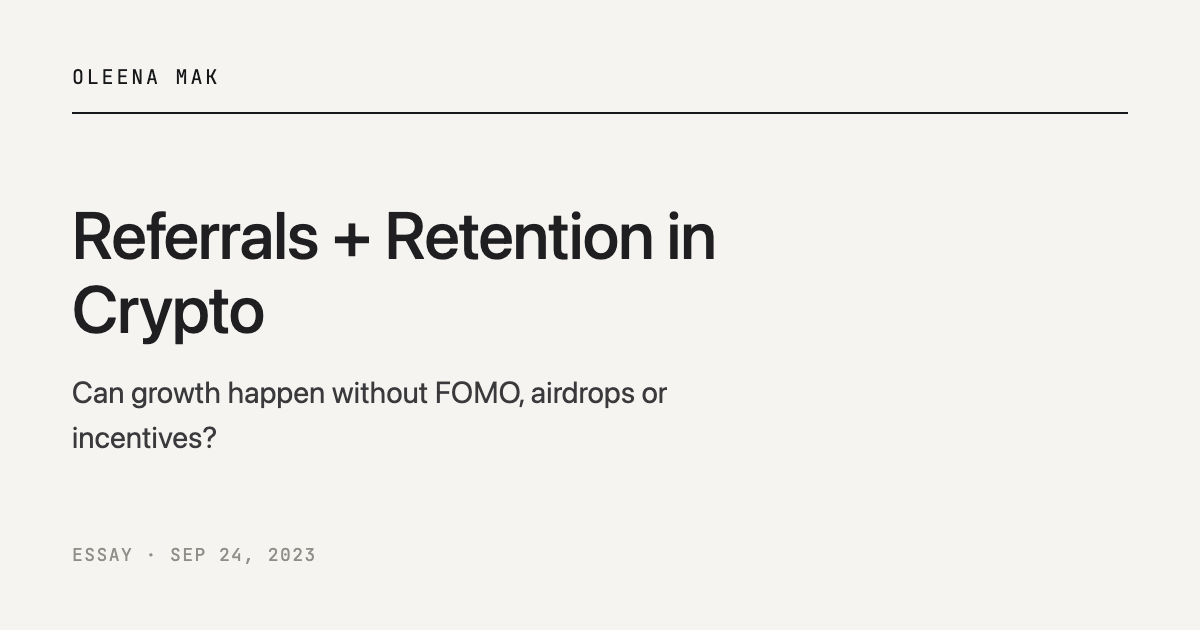
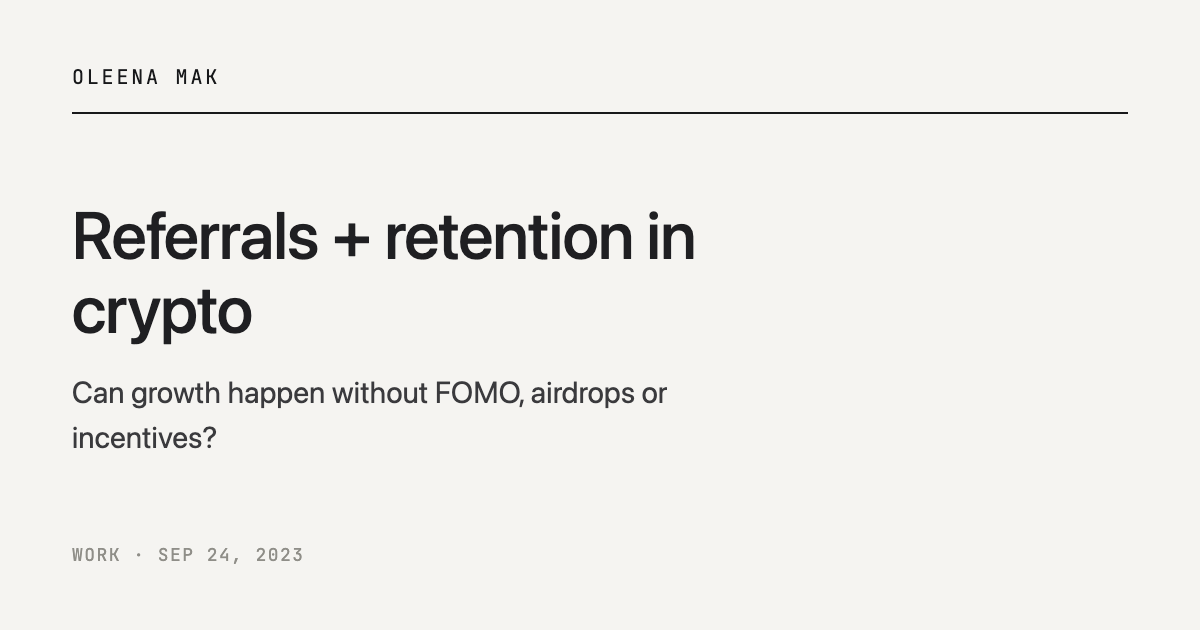
Recategorise entries; sentence-case titles; retire the essay kind
Kinds: the two "On ..." pieces become memos; the three crypto pieces become
work. Every entry is now memo or work, so "essay" is removed from the taxonomy
and "work" added beside "memo".

Titles moved to sentence case: Token-led growth, Web3 mental models: measuring
performance, Referrals + retention in crypto. The two "On ..." titles were
already sentence case.

"Practicing legibility" retitled "Improving legibility" and given the new
operator subject. Its slug is unchanged, so the URL still reads
/writing/practicing-legibility/.

OG cards regenerated: they render both the title and the kind label.

Changed region(s): [[0.3083, 0.3317, 0.6167, 0.4222], [0.0617, 0.4524, 0.2467, 0.5429], [0.0617, 0.8746, 0.2775, 0.9048]]

diff --git a/writing/web3-mental-models-measuring-performance/index.html b/writing/web3-mental-models-measuring-performance/index.html
@@ -3,7 +3,7 @@
 <head>
 <meta charset="utf-8">
 <meta name="viewport" content="width=device-width, initial-scale=1">
-<title>Web3 Mental Models: Measuring Performance · Oleena Mak</title>
+<title>Web3 mental models: measuring performance · Oleena Mak</title>
 <meta name="description" content="The shift to performance-based web3 metrics">
 <link rel="canonical" href="https://oleenamak.ca/writing/web3-mental-models-measuring-performance/">
 <meta name="theme-color" content="#f5f4f1">
@@ -11,15 +11,15 @@
 <meta property="og:type" content="article">
 <meta property="article:published_time" content="2024-04-20">
 <meta property="og:site_name" content="Oleena Mak">
-<meta property="og:title" content="Web3 Mental Models: Measuring Performance · Oleena Mak">
+<meta property="og:title" content="Web3 mental models: measuring performance · Oleena Mak">
 <meta property="og:description" content="The shift to performance-based web3 metrics">
 <meta property="og:url" content="https://oleenamak.ca/writing/web3-mental-models-measuring-performance/">
 <meta property="og:image" content="https://oleenamak.ca/assets/og/web3-mental-models-measuring-performance.png">
 <meta property="og:image:width" content="1200">
 <meta property="og:image:height" content="630">
-<meta property="og:image:alt" content="Web3 Mental Models: Measuring Performance — Oleena Mak">
+<meta property="og:image:alt" content="Web3 mental models: measuring performance — Oleena Mak">
 <meta name="twitter:card" content="summary_large_image">
-<meta name="twitter:title" content="Web3 Mental Models: Measuring Performance · Oleena Mak">
+<meta name="twitter:title" content="Web3 mental models: measuring performance · Oleena Mak">
 <meta name="twitter:description" content="The shift to performance-based web3 metrics">
 <meta name="twitter:image" content="https://oleenamak.ca/assets/og/web3-mental-models-measuring-performance.png">
 
@@ -42,7 +42,7 @@
 
     <aside class="rail">
       <dl class="coords">
-        <dt>kind</dt><dd><a href="/?kind=essay">essay</a></dd>
+        <dt>kind</dt><dd><a href="/?kind=work">work</a></dd>
         <dt>date</dt><dd>2024-04-20</dd>
         <dt>subj</dt><dd><a href="/?subj=crypto">crypto</a>, <a href="/?subj=growth">growth</a>, <a href="/?subj=systems">systems</a></dd>
       </dl>
@@ -60,7 +60,7 @@
       <article class="column">
         <!-- auto:body -->
         <div class="masthead">
-          <h1 class="title">Web3 Mental Models: Measuring Performance</h1>
+          <h1 class="title">Web3 mental models: measuring performance</h1>
           <p class="deck">The shift to performance-based web3 metrics</p>
         </div>
 
@@ -134,8 +134,8 @@
           <h2 class="label">Where this sits</h2>
           <div class="coordinates-out">
             <a href="/?subj=crypto">2 other entries under crypto &rarr;</a>
-            <a href="/writing/referrals-retention-in-crypto/">previous essay &larr;</a>
-            <a href="/writing/on-fragmented-communication/">next essay &rarr;</a>
+            <a href="/writing/referrals-retention-in-crypto/">previous work &larr;</a>
+            <a href="/writing/token-led-growth/">next work &rarr;</a>
           </div>
         </footer>
         <!-- /auto:where -->

diff --git a/writing/practicing-legibility/index.html b/writing/practicing-legibility/index.html
@@ -3,7 +3,7 @@
 <head>
 <meta charset="utf-8">
 <meta name="viewport" content="width=device-width, initial-scale=1">
-<title>Practicing legibility · Oleena Mak</title>
+<title>Improving legibility · Oleena Mak</title>
 <meta name="description" content="If you’ve ever been told, more than once, that you’re “too hard to read”, this is a bug, not a feature.">
 <link rel="canonical" href="https://oleenamak.ca/writing/practicing-legibility/">
 <meta name="theme-color" content="#f5f4f1">
@@ -11,15 +11,15 @@
 <meta property="og:type" content="article">
 <meta property="article:published_time" content="2026-09-14">
 <meta property="og:site_name" content="Oleena Mak">
-<meta property="og:title" content="Practicing legibility · Oleena Mak">
+<meta property="og:title" content="Improving legibility · Oleena Mak">
 <meta property="og:description" content="If you’ve ever been told, more than once, that you’re “too hard to read”, this is a bug, not a feature.">
 <meta property="og:url" content="https://oleenamak.ca/writing/practicing-legibility/">
 <meta property="og:image" content="https://oleenamak.ca/assets/og/practicing-legibility.png">
 <meta property="og:image:width" content="1200">
 <meta property="og:image:height" content="630">
-<meta property="og:image:alt" content="Practicing legibility — Oleena Mak">
+<meta property="og:image:alt" content="Improving legibility — Oleena Mak">
 <meta name="twitter:card" content="summary_large_image">
-<meta name="twitter:title" content="Practicing legibility · Oleena Mak">
+<meta name="twitter:title" content="Improving legibility · Oleena Mak">
 <meta name="twitter:description" content="If you’ve ever been told, more than once, that you’re “too hard to read”, this is a bug, not a feature.">
 <meta name="twitter:image" content="https://oleenamak.ca/assets/og/practicing-legibility.png">
 
@@ -44,7 +44,7 @@
       <dl class="coords">
         <dt>kind</dt><dd><a href="/?kind=memo">memo</a></dd>
         <dt>date</dt><dd>2026-09-14</dd>
-        <dt>subj</dt><dd><a href="/?subj=craft">craft</a>, <a href="/?subj=culture">culture</a></dd>
+        <dt>subj</dt><dd><a href="/?subj=operator">operator</a>, <a href="/?subj=craft">craft</a>, <a href="/?subj=culture">culture</a></dd>
       </dl>
 <footer class="block block--ruled site-footer">
         <h2 class="label">Elsewhere</h2>
@@ -60,7 +60,7 @@
       <article class="column">
         <!-- auto:body -->
         <div class="masthead">
-          <h1 class="title">Practicing legibility</h1>
+          <h1 class="title">Improving legibility</h1>
           
         </div>
 
@@ -91,7 +91,14 @@
         </div>
         <!-- /auto:body -->
 
-        <!-- auto:where --><!-- /auto:where -->
+        <!-- auto:where -->
+        <footer class="block block--ruled">
+          <h2 class="label">Where this sits</h2>
+          <div class="coordinates-out">
+            <a href="/writing/on-fragmented-communication/">previous memo &larr;</a>
+          </div>
+        </footer>
+        <!-- /auto:where -->
       </article>
     </main>
 

diff --git a/writing/referrals-retention-in-crypto/index.html b/writing/referrals-retention-in-crypto/index.html
@@ -3,7 +3,7 @@
 <head>
 <meta charset="utf-8">
 <meta name="viewport" content="width=device-width, initial-scale=1">
-<title>Referrals + Retention in Crypto · Oleena Mak</title>
+<title>Referrals + retention in crypto · Oleena Mak</title>
 <meta name="description" content="Can growth happen without FOMO, airdrops or incentives?">
 <link rel="canonical" href="https://oleenamak.ca/writing/referrals-retention-in-crypto/">
 <meta name="theme-color" content="#f5f4f1">
@@ -11,15 +11,15 @@
 <meta property="og:type" content="article">
 <meta property="article:published_time" content="2023-09-24">
 <meta property="og:site_name" content="Oleena Mak">
-<meta property="og:title" content="Referrals + Retention in Crypto · Oleena Mak">
+<meta property="og:title" content="Referrals + retention in crypto · Oleena Mak">
 <meta property="og:description" content="Can growth happen without FOMO, airdrops or incentives?">
 <meta property="og:url" content="https://oleenamak.ca/writing/referrals-retention-in-crypto/">
 <meta property="og:image" content="https://oleenamak.ca/assets/og/referrals-retention-in-crypto.png">
 <meta property="og:image:width" content="1200">
 <meta property="og:image:height" content="630">
-<meta property="og:image:alt" content="Referrals + Retention in Crypto — Oleena Mak">
+<meta property="og:image:alt" content="Referrals + retention in crypto — Oleena Mak">
 <meta name="twitter:card" content="summary_large_image">
-<meta name="twitter:title" content="Referrals + Retention in Crypto · Oleena Mak">
+<meta name="twitter:title" content="Referrals + retention in crypto · Oleena Mak">
 <meta name="twitter:description" content="Can growth happen without FOMO, airdrops or incentives?">
 <meta name="twitter:image" content="https://oleenamak.ca/assets/og/referrals-retention-in-crypto.png">
 
@@ -42,7 +42,7 @@
 
     <aside class="rail">
       <dl class="coords">
-        <dt>kind</dt><dd><a href="/?kind=essay">essay</a></dd>
+        <dt>kind</dt><dd><a href="/?kind=work">work</a></dd>
         <dt>date</dt><dd>2023-09-24</dd>
         <dt>subj</dt><dd><a href="/?subj=crypto">crypto</a>, <a href="/?subj=growth">growth</a></dd>
       </dl>
@@ -60,7 +60,7 @@
       <article class="column">
         <!-- auto:body -->
         <div class="masthead">
-          <h1 class="title">Referrals + Retention in Crypto</h1>
+          <h1 class="title">Referrals + retention in crypto</h1>
           <p class="deck">Can growth happen without FOMO, airdrops or incentives?</p>
         </div>
 
@@ -140,8 +140,7 @@
           <h2 class="label">Where this sits</h2>
           <div class="coordinates-out">
             <a href="/?subj=crypto">2 other entries under crypto &rarr;</a>
-            <a href="/writing/algorithms-groupthink-and-media/">previous essay &larr;</a>
-            <a href="/writing/web3-mental-models-measuring-performance/">next essay &rarr;</a>
+            <a href="/writing/web3-mental-models-measuring-performance/">next work &rarr;</a>
           </div>
         </footer>
         <!-- /auto:where -->

diff --git a/writing/token-led-growth/index.html b/writing/token-led-growth/index.html
@@ -3,7 +3,7 @@
 <head>
 <meta charset="utf-8">
 <meta name="viewport" content="width=device-width, initial-scale=1">
-<title>Token-led Growth · Oleena Mak</title>
+<title>Token-led growth · Oleena Mak</title>
 <meta name="description" content="A draft playbook for the next era of web3">
 <link rel="canonical" href="https://oleenamak.ca/writing/token-led-growth/">
 <meta name="theme-color" content="#f5f4f1">
@@ -11,15 +11,15 @@
 <meta property="og:type" content="article">
 <meta property="article:published_time" content="2026-04-20">
 <meta property="og:site_name" content="Oleena Mak">
-<meta property="og:title" content="Token-led Growth · Oleena Mak">
+<meta property="og:title" content="Token-led growth · Oleena Mak">
 <meta property="og:description" content="A draft playbook for the next era of web3">
 <meta property="og:url" content="https://oleenamak.ca/writing/token-led-growth/">
 <meta property="og:image" content="https://oleenamak.ca/assets/og/token-led-growth.png">
 <meta property="og:image:width" content="1200">
 <meta property="og:image:height" content="630">
-<meta property="og:image:alt" content="Token-led Growth — Oleena Mak">
+<meta property="og:image:alt" content="Token-led growth — Oleena Mak">
 <meta name="twitter:card" content="summary_large_image">
-<meta name="twitter:title" content="Token-led Growth · Oleena Mak">
+<meta name="twitter:title" content="Token-led growth · Oleena Mak">
 <meta name="twitter:description" content="A draft playbook for the next era of web3">
 <meta name="twitter:image" content="https://oleenamak.ca/assets/og/token-led-growth.png">
 
@@ -42,7 +42,7 @@
 
     <aside class="rail">
       <dl class="coords">
-        <dt>kind</dt><dd><a href="/?kind=playbook">playbook</a></dd>
+        <dt>kind</dt><dd><a href="/?kind=work">work</a></dd>
         <dt>date</dt><dd>2026-04-20</dd>
         <dt>subj</dt><dd><a href="/?subj=crypto">crypto</a>, <a href="/?subj=growth">growth</a></dd>
       </dl>
@@ -60,7 +60,7 @@
       <article class="column">
         <!-- auto:body -->
         <div class="masthead">
-          <h1 class="title">Token-led Growth</h1>
+          <h1 class="title">Token-led growth</h1>
           <p class="deck">A draft playbook for the next era of web3</p>
         </div>
 
@@ -128,6 +128,7 @@
           <h2 class="label">Where this sits</h2>
           <div class="coordinates-out">
             <a href="/?subj=crypto">2 other entries under crypto &rarr;</a>
+            <a href="/writing/web3-mental-models-measuring-performance/">previous work &larr;</a>
           </div>
         </footer>
         <!-- /auto:where -->

diff --git a/assets/entries.js b/assets/entries.js
@@ -18,24 +18,24 @@
 /* Facet display order — authored, not derived. Values not listed
    here are appended by count. */
 window.TAXONOMY = {
-  kinds:    ["essay", "note", "field note", "memo", "playbook", "project", "drawing"],
-  subjects: ["crypto", "growth", "craft", "culture", "systems", "faith"]
+  kinds:    ["note", "field note", "memo", "work", "playbook", "project", "drawing"],
+  subjects: ["crypto", "growth", "operator", "craft", "culture", "systems", "faith"]
 };
 
 window.ENTRIES = [
   {
     slug: "/writing/practicing-legibility/",
-    title: "Practicing legibility",
+    title: "Improving legibility",
     kind: "memo",
     date: "2026-09-14",
-    subjects: ["craft", "culture"],
+    subjects: ["operator", "craft", "culture"],
     plates: 0
   },
   {
     slug: "/writing/token-led-growth/",
-    title: "Token-led Growth",
+    title: "Token-led growth",
     deck: "A draft playbook for the next era of web3",
-    kind: "playbook",
+    kind: "work",
     date: "2026-04-20",
     subjects: ["crypto", "growth"],
     plates: 2
@@ -44,25 +44,25 @@ window.ENTRIES = [
     slug: "/writing/on-fragmented-communication/",
     title: "On fragmented communication",
     deck: "The origin of fragmented communication and building modern-day Towers of Babel",
-    kind: "essay",
+    kind: "memo",
     date: "2024-07-30",
     subjects: ["culture", "faith"],
     plates: 0
   },
   {
     slug: "/writing/web3-mental-models-measuring-performance/",
-    title: "Web3 Mental Models: Measuring Performance",
+    title: "Web3 mental models: measuring performance",
     deck: "The shift to performance-based web3 metrics",
-    kind: "essay",
+    kind: "work",
     date: "2024-04-20",
     subjects: ["crypto", "growth", "systems"],
     plates: 2
   },
   {
     slug: "/writing/referrals-retention-in-crypto/",
-    title: "Referrals + Retention in Crypto",
+    title: "Referrals + retention in crypto",
     deck: "Can growth happen without FOMO, airdrops or incentives?",
-    kind: "essay",
+    kind: "work",
     date: "2023-09-24",
     subjects: ["crypto", "growth"],
     plates: 2
@@ -71,7 +71,7 @@ window.ENTRIES = [
     slug: "/writing/algorithms-groupthink-and-media/",
     title: "On algorithms, groupthink and media",
     deck: "A reflection on what controls and manufactures our thoughts",
-    kind: "essay",
+    kind: "memo",
     date: "2020-10-14",
     subjects: ["culture"],
     plates: 0

diff --git a/writing/on-fragmented-communication/index.html b/writing/on-fragmented-communication/index.html
@@ -42,7 +42,7 @@
 
     <aside class="rail">
       <dl class="coords">
-        <dt>kind</dt><dd><a href="/?kind=essay">essay</a></dd>
+        <dt>kind</dt><dd><a href="/?kind=memo">memo</a></dd>
         <dt>date</dt><dd>2024-07-30</dd>
         <dt>subj</dt><dd><a href="/?subj=culture">culture</a>, <a href="/?subj=faith">faith</a></dd>
       </dl>
@@ -91,7 +91,8 @@
           <h2 class="label">Where this sits</h2>
           <div class="coordinates-out">
             <a href="/?subj=culture">2 other entries under culture &rarr;</a>
-            <a href="/writing/web3-mental-models-measuring-performance/">previous essay &larr;</a>
+            <a href="/writing/algorithms-groupthink-and-media/">previous memo &larr;</a>
+            <a href="/writing/practicing-legibility/">next memo &rarr;</a>
           </div>
         </footer>
         <!-- /auto:where -->

diff --git a/writing/algorithms-groupthink-and-media/index.html b/writing/algorithms-groupthink-and-media/index.html
@@ -42,7 +42,7 @@
 
     <aside class="rail">
       <dl class="coords">
-        <dt>kind</dt><dd><a href="/?kind=essay">essay</a></dd>
+        <dt>kind</dt><dd><a href="/?kind=memo">memo</a></dd>
         <dt>date</dt><dd>2020-10-14</dd>
         <dt>subj</dt><dd><a href="/?subj=culture">culture</a></dd>
       </dl>
@@ -80,7 +80,7 @@
           <h2 class="label">Where this sits</h2>
           <div class="coordinates-out">
             <a href="/?subj=culture">2 other entries under culture &rarr;</a>
-            <a href="/writing/referrals-retention-in-crypto/">next essay &rarr;</a>
+            <a href="/writing/on-fragmented-communication/">next memo &rarr;</a>
           </div>
         </footer>
         <!-- /auto:where -->

diff --git a/index.html b/index.html
@@ -77,7 +77,7 @@
 
 
 </div>
-<script src="/assets/entries.js?v=a3f223be"></script>
+<script src="/assets/entries.js?v=486973ab"></script>
 <script src="/assets/index.js?v=cc5651d4"></script>
 <script src="/assets/chrome.js?v=58cdc49a"></script>
 </body>

diff --git a/projects/index.html b/projects/index.html
@@ -72,7 +72,7 @@
 
 
 </div>
-<script src="/assets/entries.js?v=a3f223be"></script>
+<script src="/assets/entries.js?v=486973ab"></script>
 <script src="/assets/index.js?v=cc5651d4"></script>
 <script src="/assets/chrome.js?v=58cdc49a"></script>
 </body>

diff --git a/writing/index.html b/writing/index.html
@@ -71,7 +71,7 @@
 
 
 </div>
-<script src="/assets/entries.js?v=a3f223be"></script>
+<script src="/assets/entries.js?v=486973ab"></script>
 <script src="/assets/index.js?v=cc5651d4"></script>
 <script src="/assets/chrome.js?v=58cdc49a"></script>
 </body>
